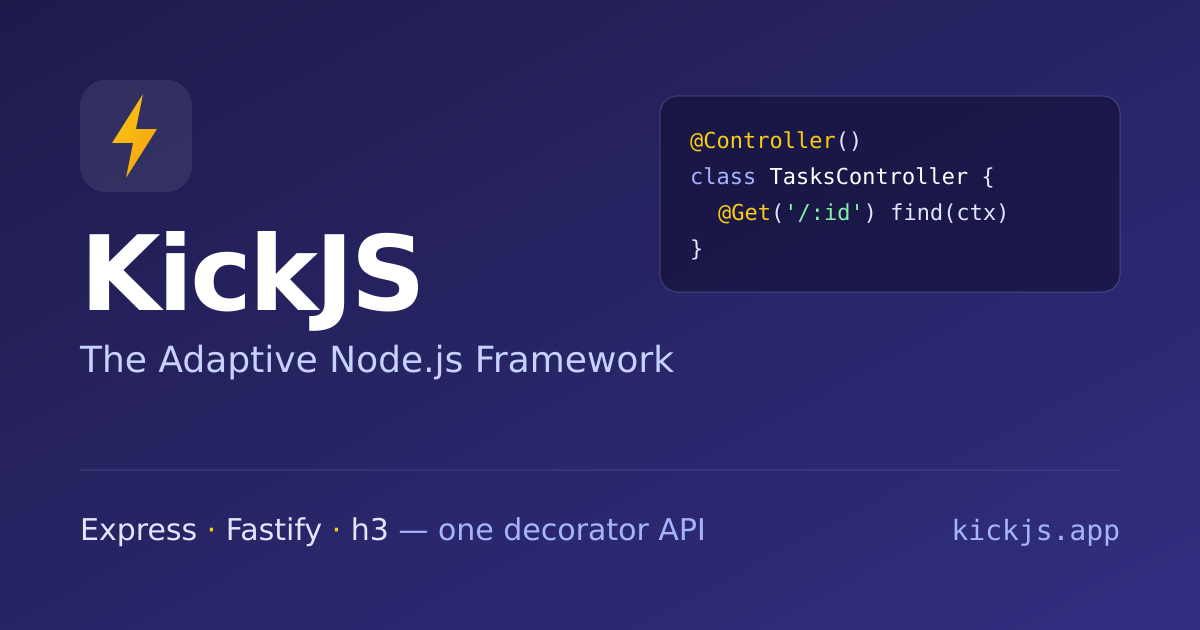
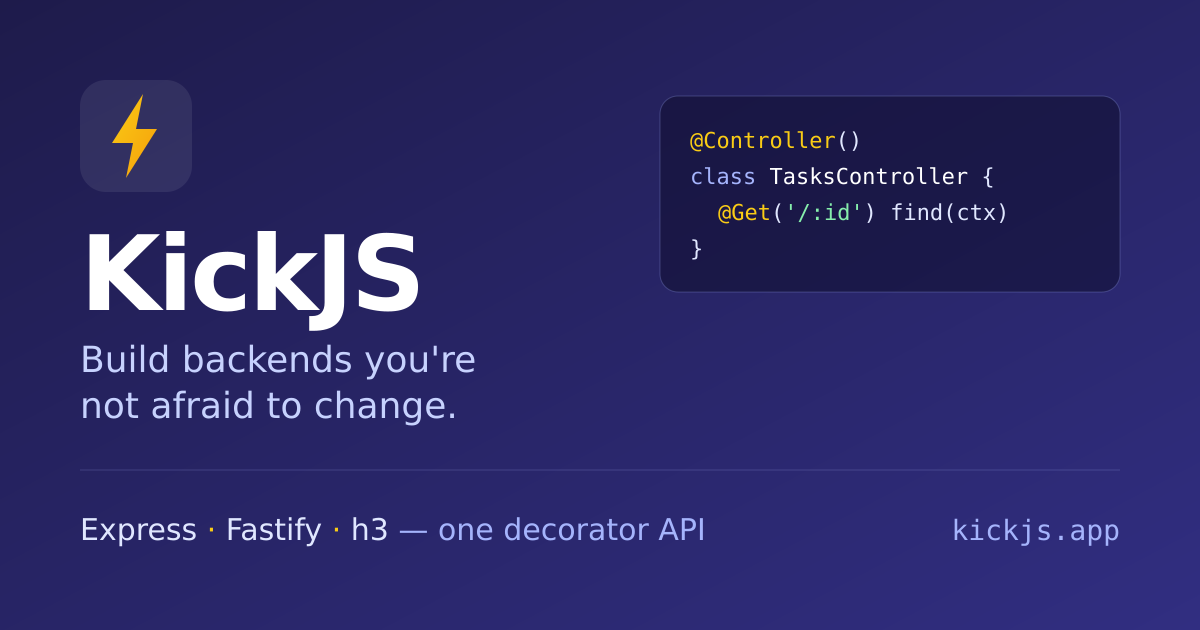
docs(site): reframe the landing page, title and SEO around fearless change
The hero, page title, meta description, Open Graph title/description/image
and README banner now lead with "Build backends you're not afraid to
change": type safety from database to frontend, sub-second boot, a
Vite-powered dev server, and a built-in, pluggable core.

Changed region(s): [[0.0617, 0.5429, 0.555, 0.6032], [0.0617, 0.6333, 0.37, 0.6635]]

diff --git a/docs/.vitepress/theme/HomeHero.vue b/docs/.vitepress/theme/HomeHero.vue
@@ -12,11 +12,12 @@ import { VPButton } from 'vitepress/theme'
         Open Source &middot; MIT Licensed
       </div>
       <h1 class="hero-name">Kick<span class="hero-accent">JS</span></h1>
-      <p class="hero-text">The Adaptive Node.js Framework</p>
+      <p class="hero-text">Build backends you're not afraid to change.</p>
       <p class="hero-tagline">
-        Decorator-driven APIs that run on Express, Fastify, or h3 &mdash; swap the engine in one
-        line. REST, WebSocket, queues, scheduled jobs. TypeScript-first, pluggable,
-        production-ready.
+        Type-safe from your database to your frontend. Boots in under half a second, with a
+        Vite-powered dev server that reloads as you save. Database, jobs, real-time and a typed
+        client built in &mdash; every piece pluggable, down to the HTTP engine. Start with one
+        route; grow into an enterprise platform.
       </p>
       <div class="hero-actions">
         <VPButton

diff --git a/docs/index.md b/docs/index.md
@@ -4,7 +4,7 @@ layout: home
 # title alone loses "kickjs" to the streaming service. The custom home layout
 # does not read frontmatter `title`, so this only sets the document title;
 # `titleTemplate: false` stops VitePress appending " | KickJS" to it.
-title: KickJS — The Adaptive Node.js Framework
+title: KickJS — Build Node.js backends you're not afraid to change
 titleTemplate: false
 
 features:
